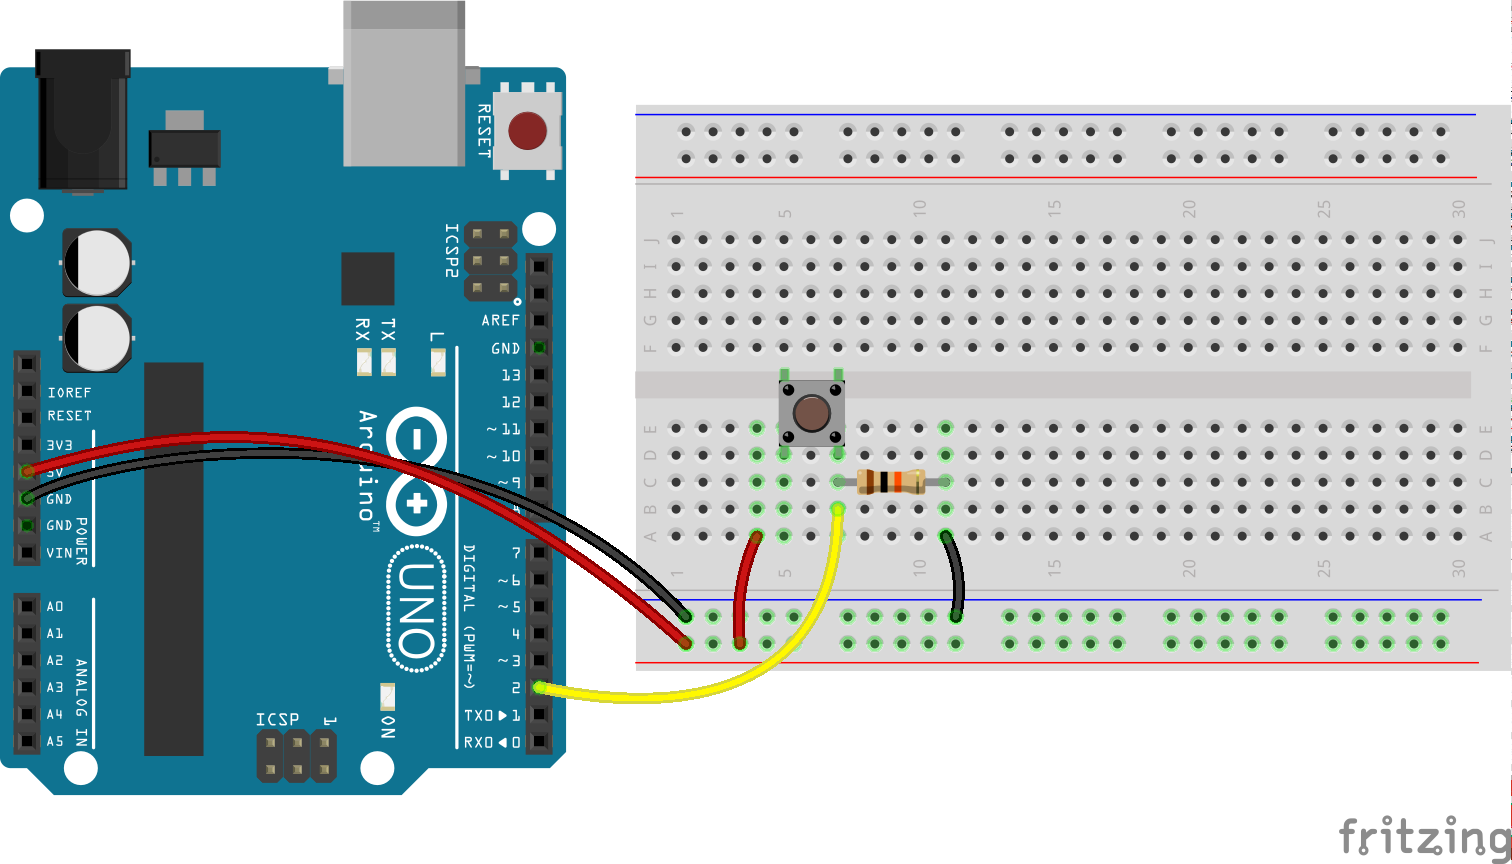
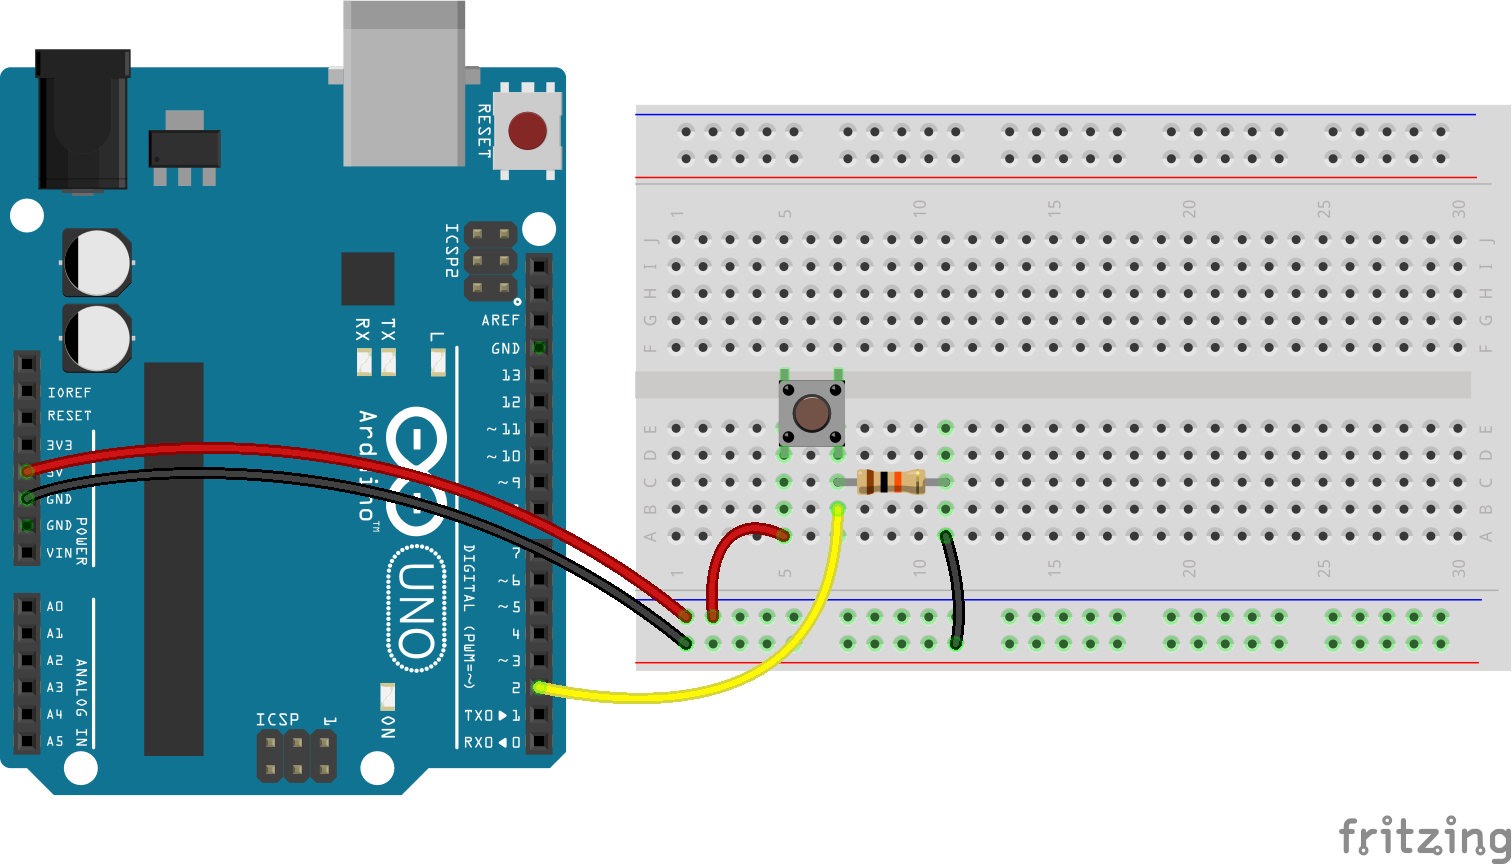
Button: Fix breadboard diagram, update example code. Fixes gh-645

diff --git a/eg/button.js b/eg/button.js
@@ -8,7 +8,7 @@ board.on("ready", function() {
   // Create a new `button` hardware instance.
   // This example allows the button module to
   // create a completely default instance
-  button = new five.Button(8);
+  button = new five.Button(2);
 
   // Inject the `button` hardware into
   // the Repl instance's context;

diff --git a/docs/button.md b/docs/button.md
@@ -18,7 +18,7 @@ board.on("ready", function() {
   // Create a new `button` hardware instance.
   // This example allows the button module to
   // create a completely default instance
-  button = new five.Button(8);
+  button = new five.Button(2);
 
   // Inject the `button` hardware into
   // the Repl instance's context;
